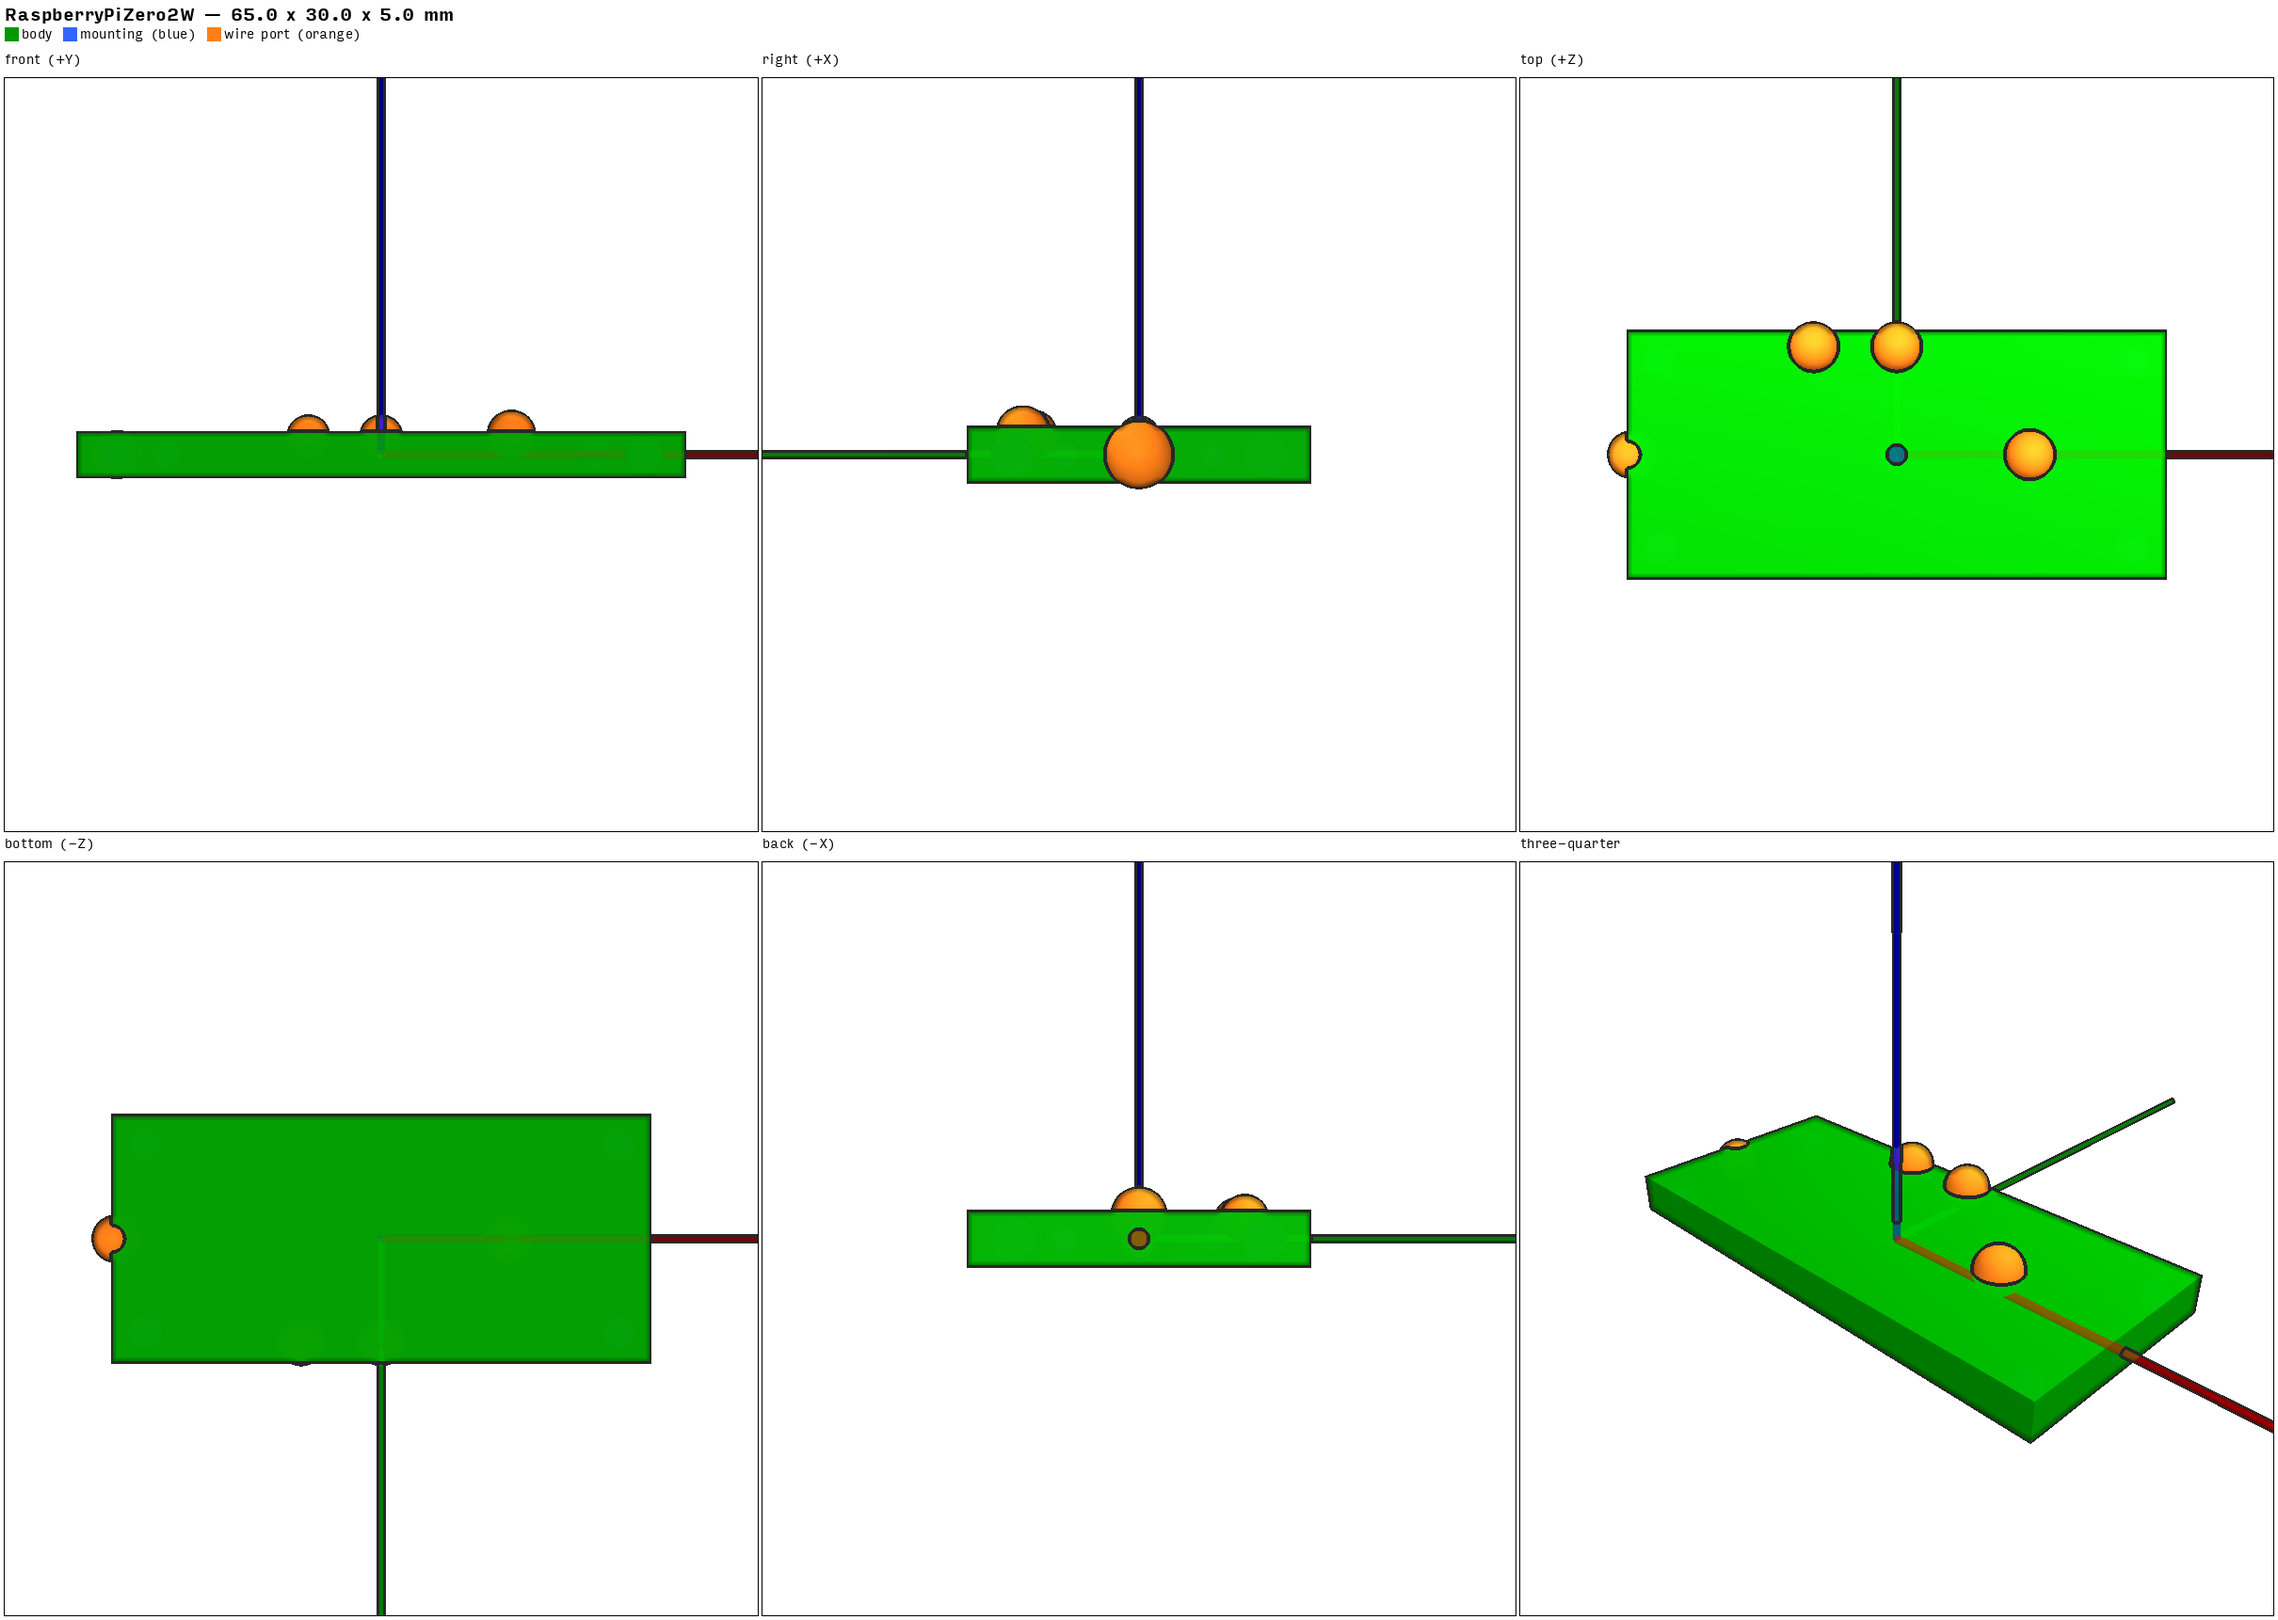
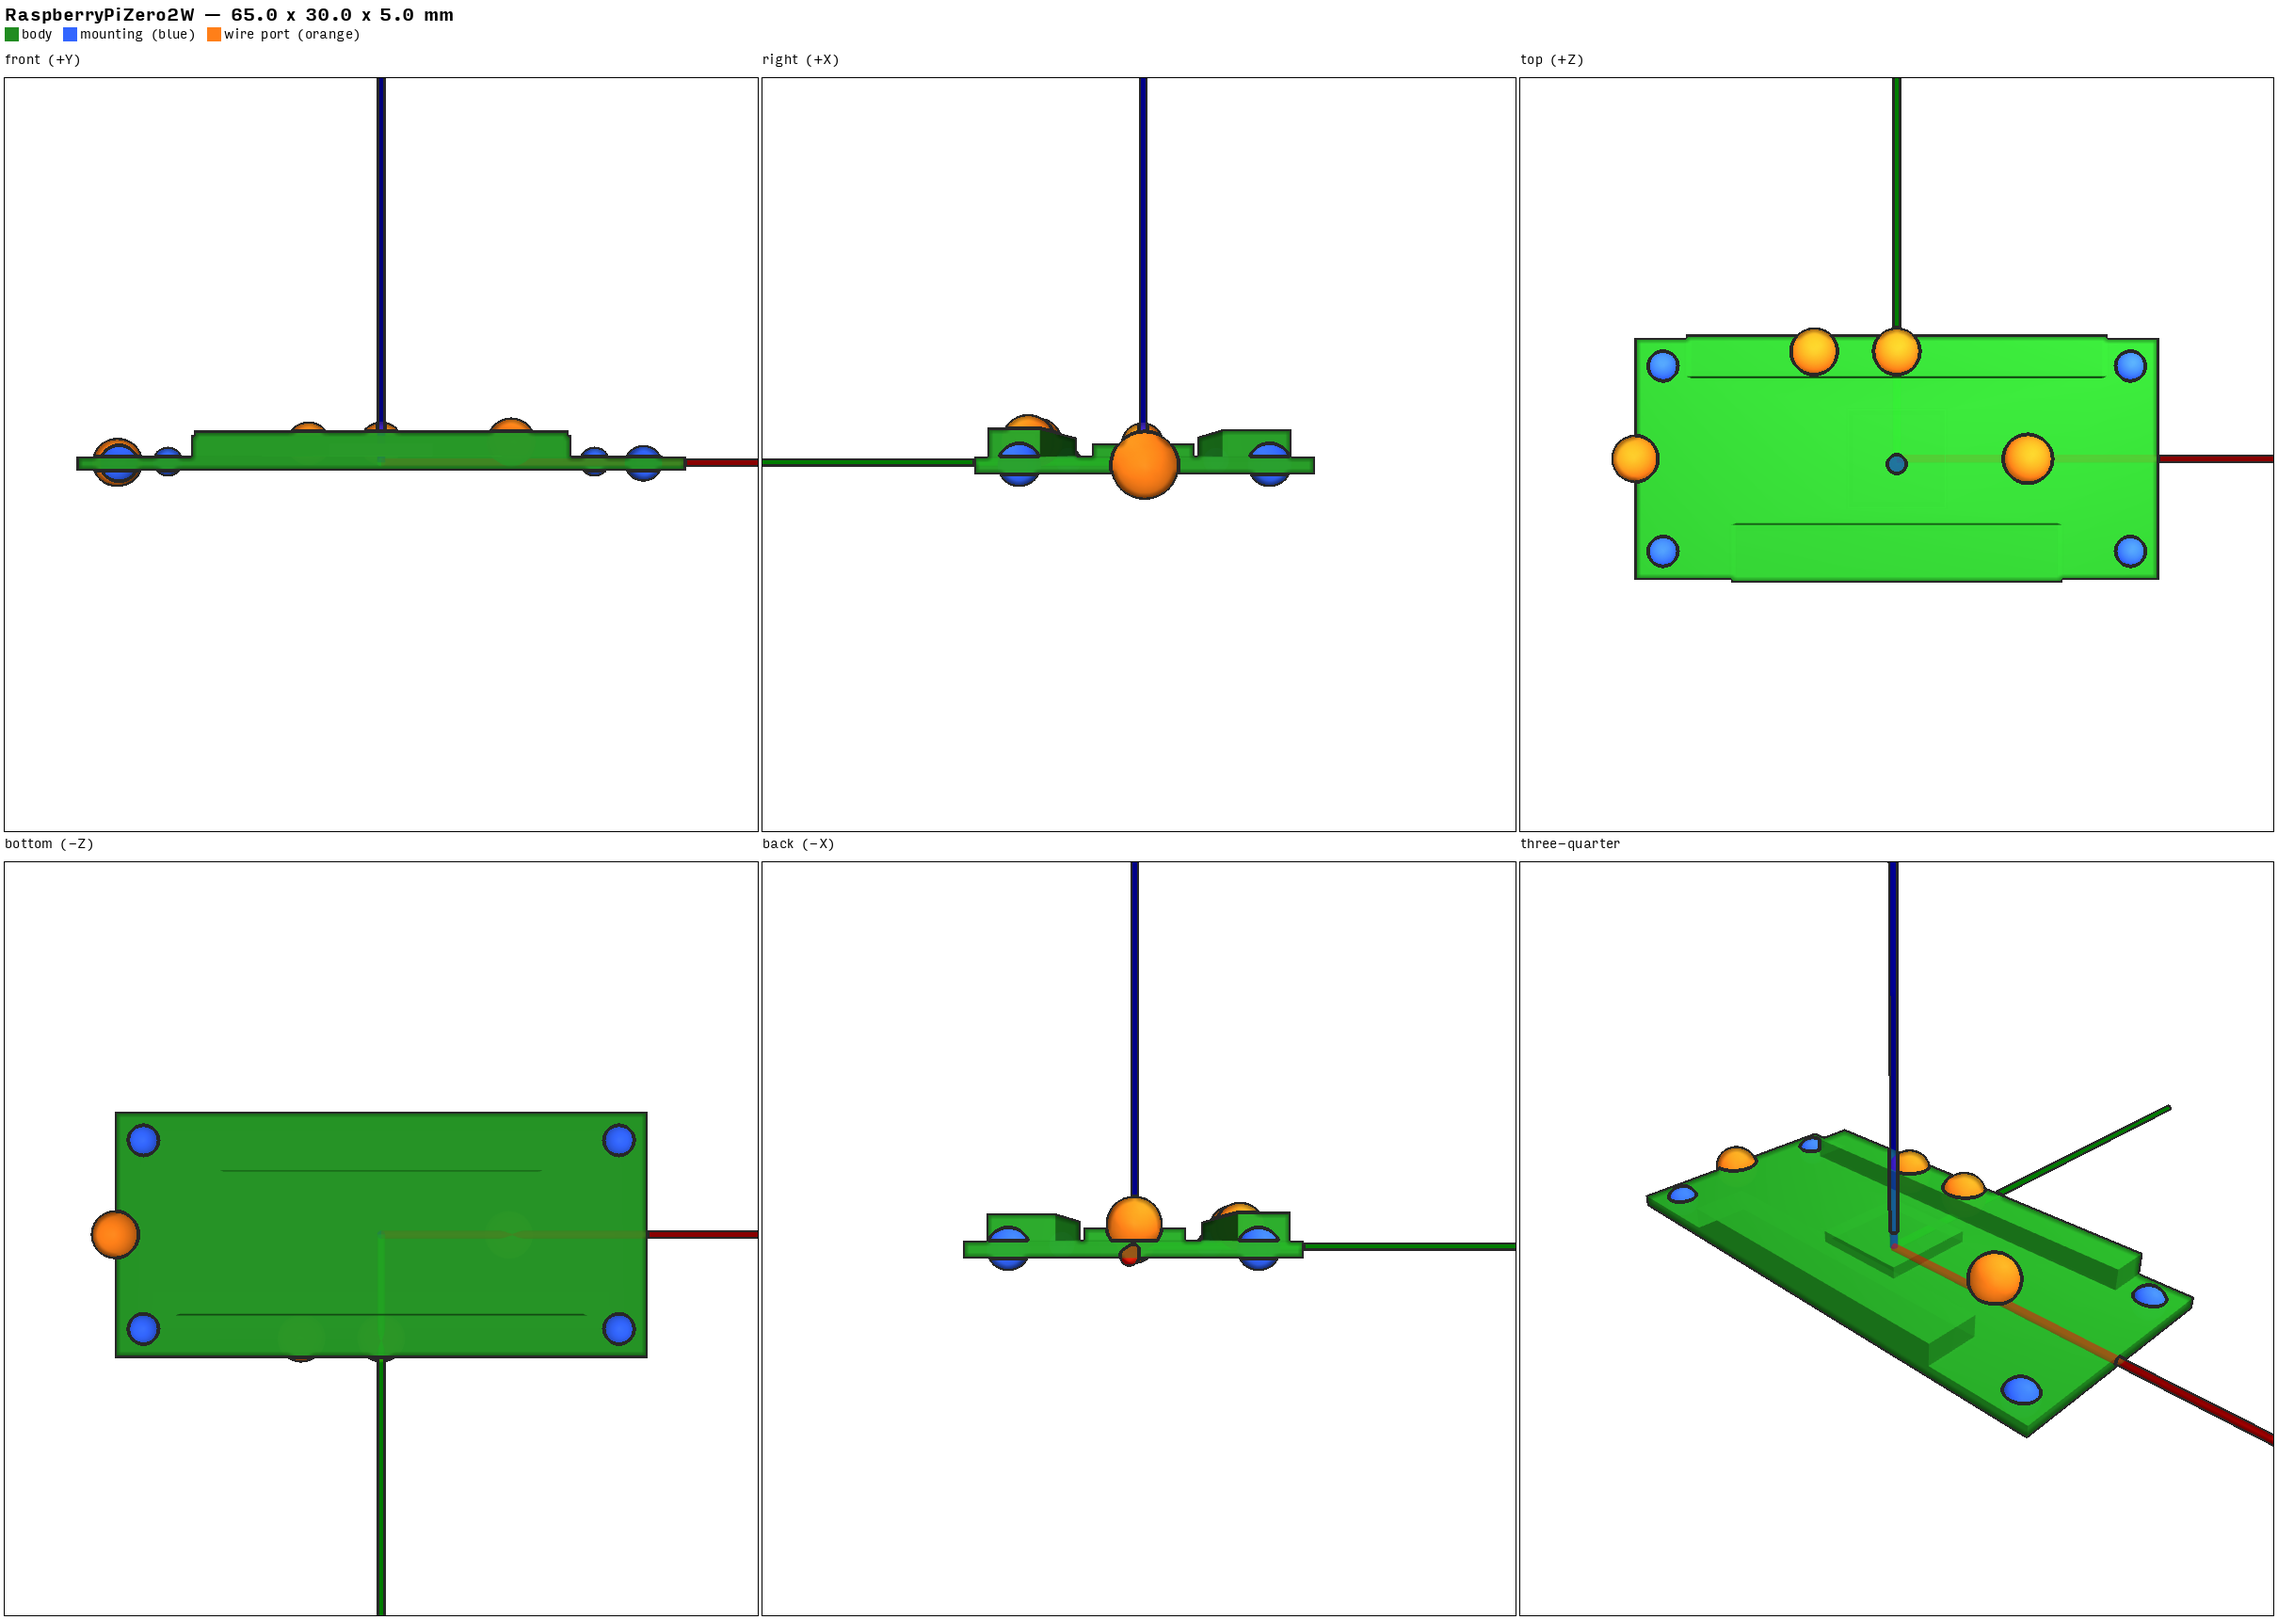
Improve Raspberry Pi Zero 2W component accuracy

diff --git a/botcad/components/compute.py b/botcad/components/compute.py
@@ -28,33 +28,96 @@ def RaspberryPiZero2W() -> Component:
             MountPoint(
                 "m1",
                 pos=(-0.029, -0.0115, 0.0),
-                diameter=0.0025,
+                diameter=0.00275,
                 axis=(0.0, 0.0, -1.0),
                 fastener_type="M2.5",
             ),
             MountPoint(
                 "m2",
                 pos=(0.029, -0.0115, 0.0),
-                diameter=0.0025,
+                diameter=0.00275,
                 axis=(0.0, 0.0, -1.0),
                 fastener_type="M2.5",
             ),
             MountPoint(
                 "m3",
                 pos=(-0.029, 0.0115, 0.0),
-                diameter=0.0025,
+                diameter=0.00275,
                 axis=(0.0, 0.0, -1.0),
                 fastener_type="M2.5",
             ),
             MountPoint(
                 "m4",
                 pos=(0.029, 0.0115, 0.0),
-                diameter=0.0025,
+                diameter=0.00275,
                 axis=(0.0, 0.0, -1.0),
                 fastener_type="M2.5",
             ),
         ),
-        color=(0.0, 0.5, 0.0, 1.0),  # PCB green
+        color=(0.13, 0.55, 0.13, 1.0),  # PCB green
         voltage=5.0,
         typical_current=0.6,  # ~600mA typical under load
     )
+
+
+def raspberry_pi_zero_solid():
+    """Parametric solid for Raspberry Pi Zero.
+
+    Dimensions per official mechanical drawings:
+    - PCB: 65mm x 30mm x 1.5mm
+    - Corner radii: 3mm
+    - Mounting holes: 4x 2.75mm diameter, located 3.5mm from edges
+      (centered at x = +/- 29mm, y = +/- 11.5mm)
+    - Envelope Z height (including components): 5mm
+    """
+    from build123d import Align, Box, Cylinder, Location
+
+    from botcad.emit.cad import _as_solid
+
+    C = (Align.CENTER, Align.CENTER, Align.CENTER)
+
+    # Base PCB Plate (at Z=0 roughly)
+    # Using 1.5mm thickness for the PCB itself
+    pcb = Box(0.065, 0.030, 0.0015, align=C)
+
+    # Add corner fillets
+    edges_to_fillet = [
+        e for e in pcb.edges() if e.geom_type == "LINE" and abs(e.direction.Z) > 0.9
+    ]
+    if len(edges_to_fillet) == 4:
+        pcb = pcb.fillet(0.003, edges_to_fillet)
+
+    # Cut mounting holes
+    hole_radius = 0.00275 / 2.0
+    hole_depth = 0.002  # Cut clear through the 1.5mm PCB
+
+    # Holes are exactly 3.5mm from edges on a 65x30 board -> +/-29 in X, +/-11.5 in Y
+    holes = [
+        Location((-0.029, -0.0115, 0)),
+        Location((0.029, -0.0115, 0)),
+        Location((-0.029, 0.0115, 0)),
+        Location((0.029, 0.0115, 0)),
+    ]
+
+    for loc in holes:
+        cyl = Cylinder(hole_radius, hole_depth, align=C).locate(loc)
+        pcb = pcb - cyl
+
+    # Add component volumes to reach the 5mm bounding box height and provide geometric context
+    # HDMI/Power/USB ports on the bottom edge (approximate)
+    ports_block = Box(0.040, 0.007, 0.003, align=C)
+    ports_block = ports_block.locate(Location((0, -0.0115, 0.002)))
+
+    # GPIO header on the top edge
+    gpio_block = Box(0.051, 0.005, 0.003, align=C)
+    gpio_block = gpio_block.locate(Location((0, 0.0125, 0.002)))
+
+    # Main SoC
+    soc_block = Box(0.012, 0.012, 0.0015, align=C)
+    soc_block = soc_block.locate(Location((0, 0, 0.0015)))
+
+    # Union all the parts
+    solid = pcb + ports_block + gpio_block + soc_block
+
+    # Wrap to ensure we return a Solid object proper
+    return _as_solid(solid)

diff --git a/botcad/emit/cad.py b/botcad/emit/cad.py
@@ -191,6 +191,11 @@ def make_component_solid(component: Component):
 
     dims = component.dimensions
 
+    if component.name == "RaspberryPiZero2W":
+        from botcad.components.compute import raspberry_pi_zero_solid
+
+        return raspberry_pi_zero_solid()
+
     # Wheels: detailed tire/hub geometry
     if "Wheel" in component.name:
         r = dims[0] / 2

diff --git a/EXPERIMENTS.md b/EXPERIMENTS.md
@@ -18,3 +18,6 @@ Tracking experimental branches and their outcomes.
 | `exp/ppo-architecture-baseline` | PPO architecture comparison baseline | Abandoned (no unique changes) | - |
 | `exp/walls-exploration` | Adding walls to the environment encourages more directed exploration | Abandoned (no unique changes) | - |
 | `exp/260221-scene-gen` | Procedural scene generation: parametric furniture concepts (table, chair, shelf) composed from MuJoCo primitives, placed at random per episode. Phase 1 = primitives with `@lru_cache`, future phases add STL mesh generation with disk caching. Goal: visual diversity + physical obstacles for richer training. Scale progression: room -> apartment -> house -> village. | In progress | - |
+### 260309-pi-zero-accurate
+- Replaced box approximation of RaspberryPiZero2W with an exact parametric solid (65x30x1.5mm PCB, corner radii, precise M2.5 mounting holes, and component clearances).
+- Passed `make validate` rendering the new geometry into CAD assemblies and simulation collision meshes.
